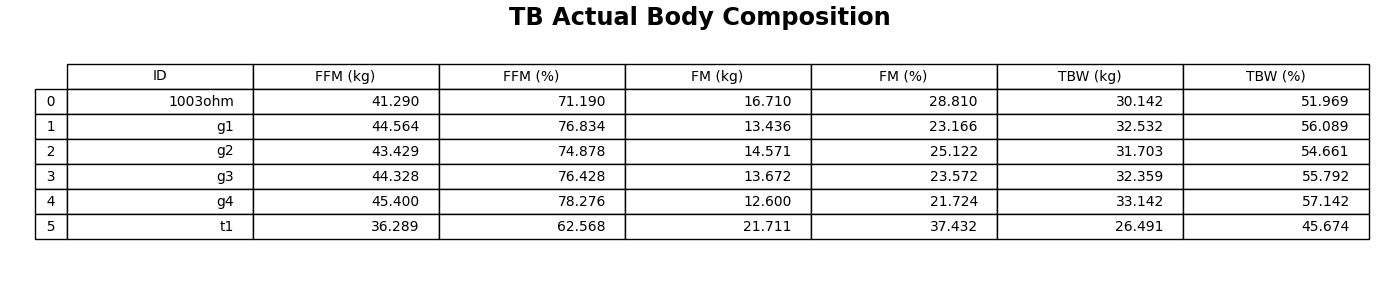
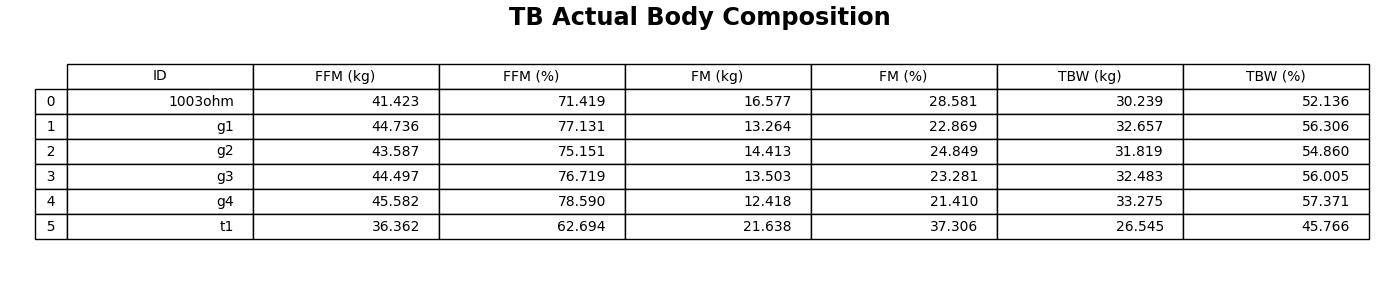
ok

diff --git a/media/hand to hand/TB Actual Body Composition.md b/media/hand to hand/TB Actual Body Composition.md
@@ -1,8 +1,8 @@
 | ID	| FFM (kg)	| FFM (%)	| FM (kg)	| FM (%)	| TBW (kg)	| TBW (%)	|
 | :-	| -:	| -:	| -:	| -:	| -:	| -:	|
-| 1003ohm	| 41.290	| 71.190	| 16.710	| 28.810	| 30.142	| 51.969	|
-| g1	| 44.564	| 76.834	| 13.436	| 23.166	| 32.532	| 56.089	|
-| g2	| 43.429	| 74.878	| 14.571	| 25.122	| 31.703	| 54.661	|
-| g3	| 44.328	| 76.428	| 13.672	| 23.572	| 32.359	| 55.792	|
-| g4	| 45.400	| 78.276	| 12.600	| 21.724	| 33.142	| 57.142	|
-| t1	| 36.289	| 62.568	| 21.711	| 37.432	| 26.491	| 45.674	|
+| 1003ohm	| 41.423	| 71.419	| 16.577	| 28.581	| 30.239	| 52.136	|
+| g1	| 44.736	| 77.131	| 13.264	| 22.869	| 32.657	| 56.306	|
+| g2	| 43.587	| 75.151	| 14.413	| 24.849	| 31.819	| 54.860	|
+| g3	| 44.497	| 76.719	| 13.503	| 23.281	| 32.483	| 56.005	|
+| g4	| 45.582	| 78.590	| 12.418	| 21.410	| 33.275	| 57.371	|
+| t1	| 36.362	| 62.694	| 21.638	| 37.306	| 26.545	| 45.766	|
